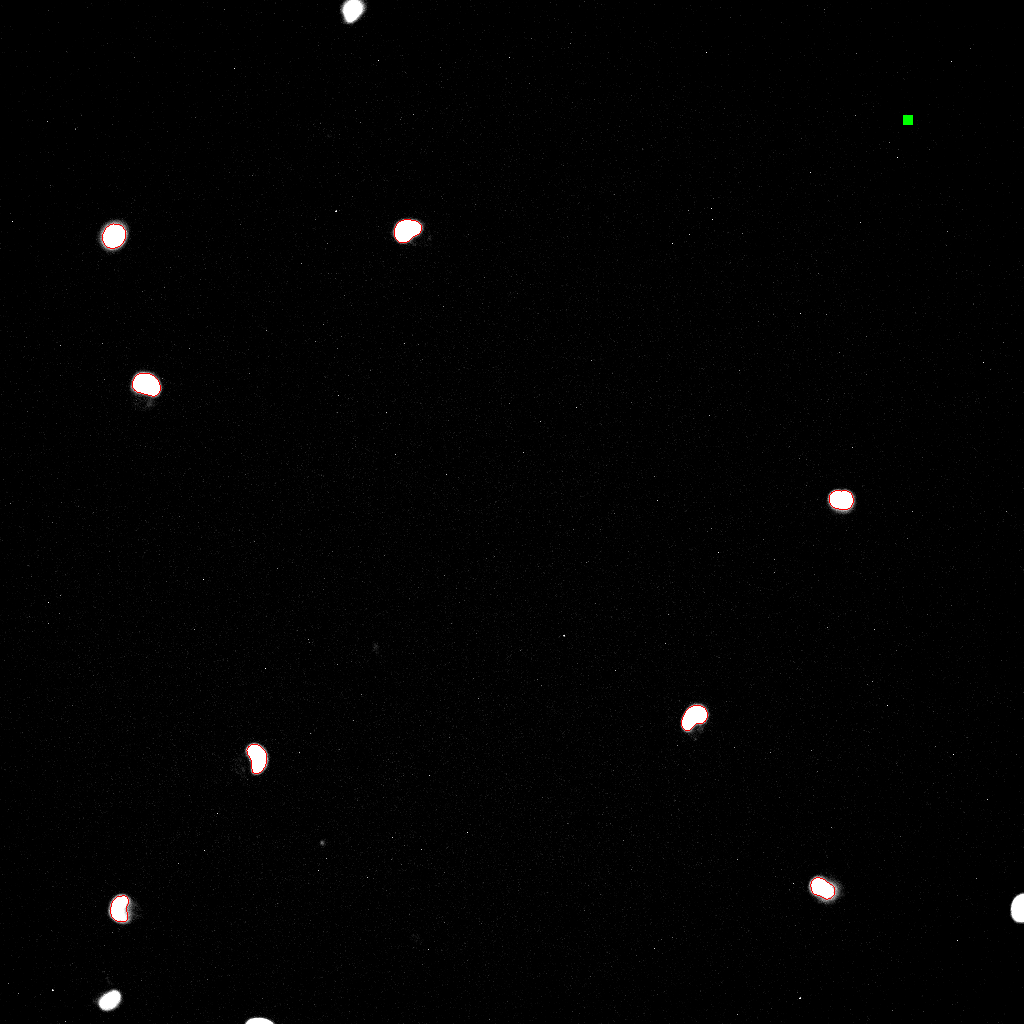
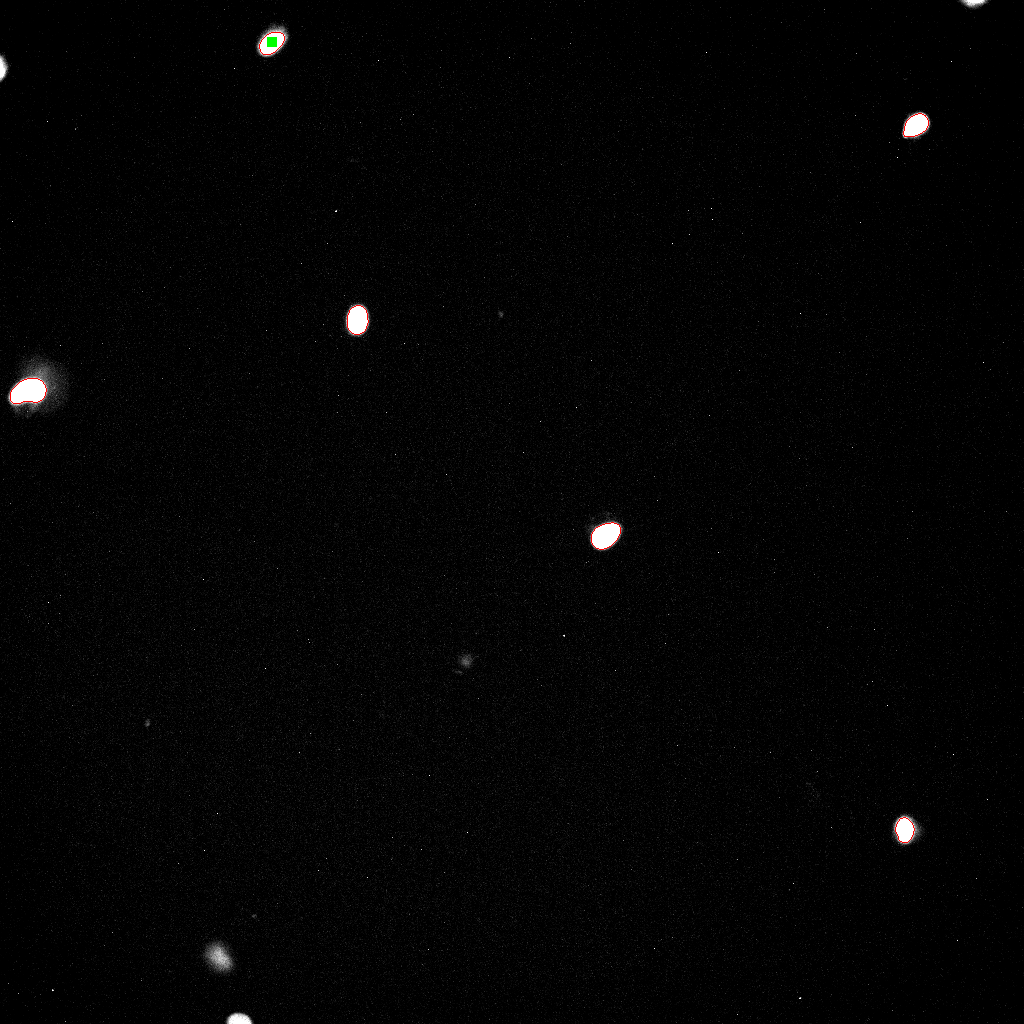
location for marker fixed

diff --git a/app_launcher.py b/app_launcher.py
@@ -461,7 +461,7 @@ def update_image_overlay(hoverData, image_dict, image_type, image_selector, shar
     x_coord=int(data[data['unique_time']==ID_or]['Location_Center_X'].values)
     y_coord=int(data[data['unique_time']==ID_or]['Location_Center_Y'].values)
     #manipulating a range of pixels around the center into being green
-    img[x_coord-5:x_coord+5, y_coord-5:y_coord+5]=[0, 255, 0]
+    img[y_coord-5:y_coord+5, x_coord-5:x_coord+5]=[0, 255, 0]
     #base64 encoding the image
     temp=Image.fromarray(img)
     temp.save('temp.png')
